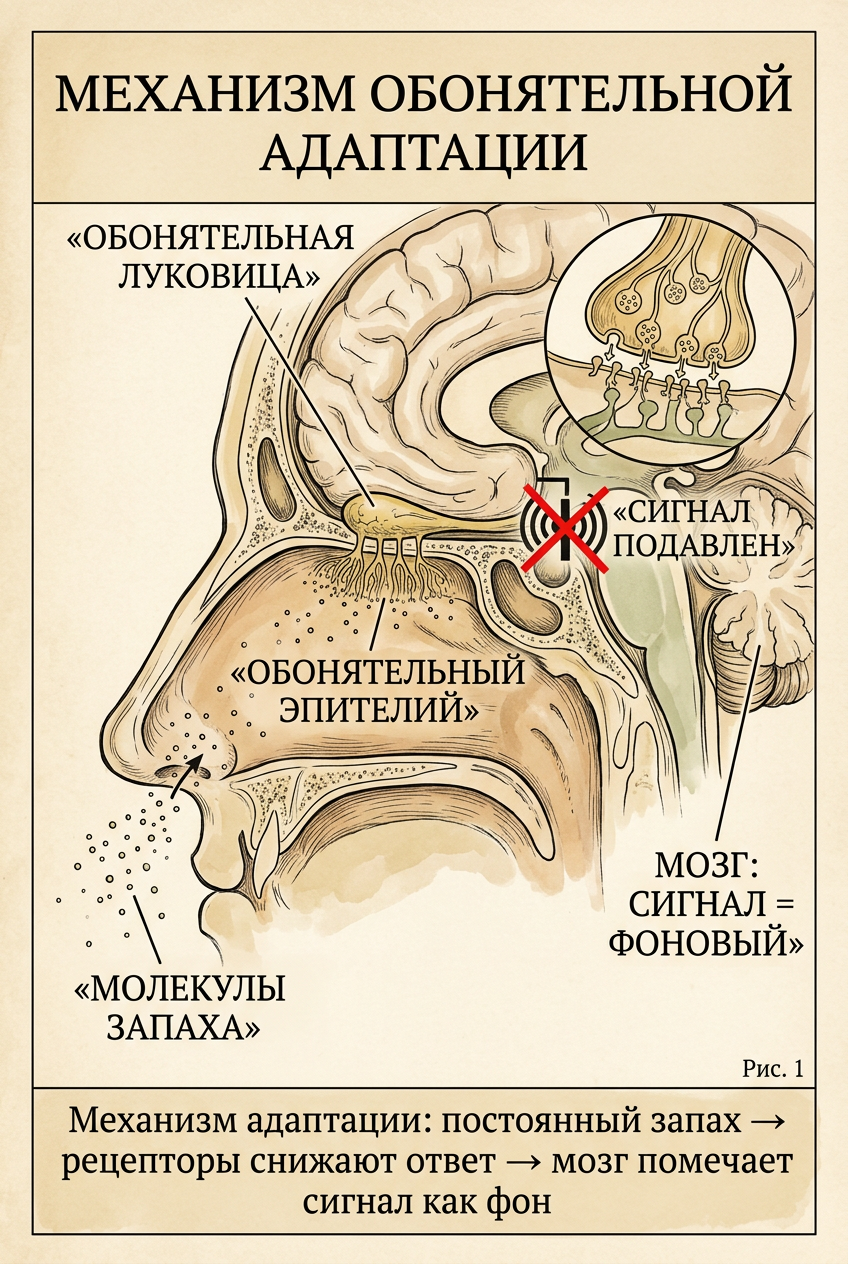
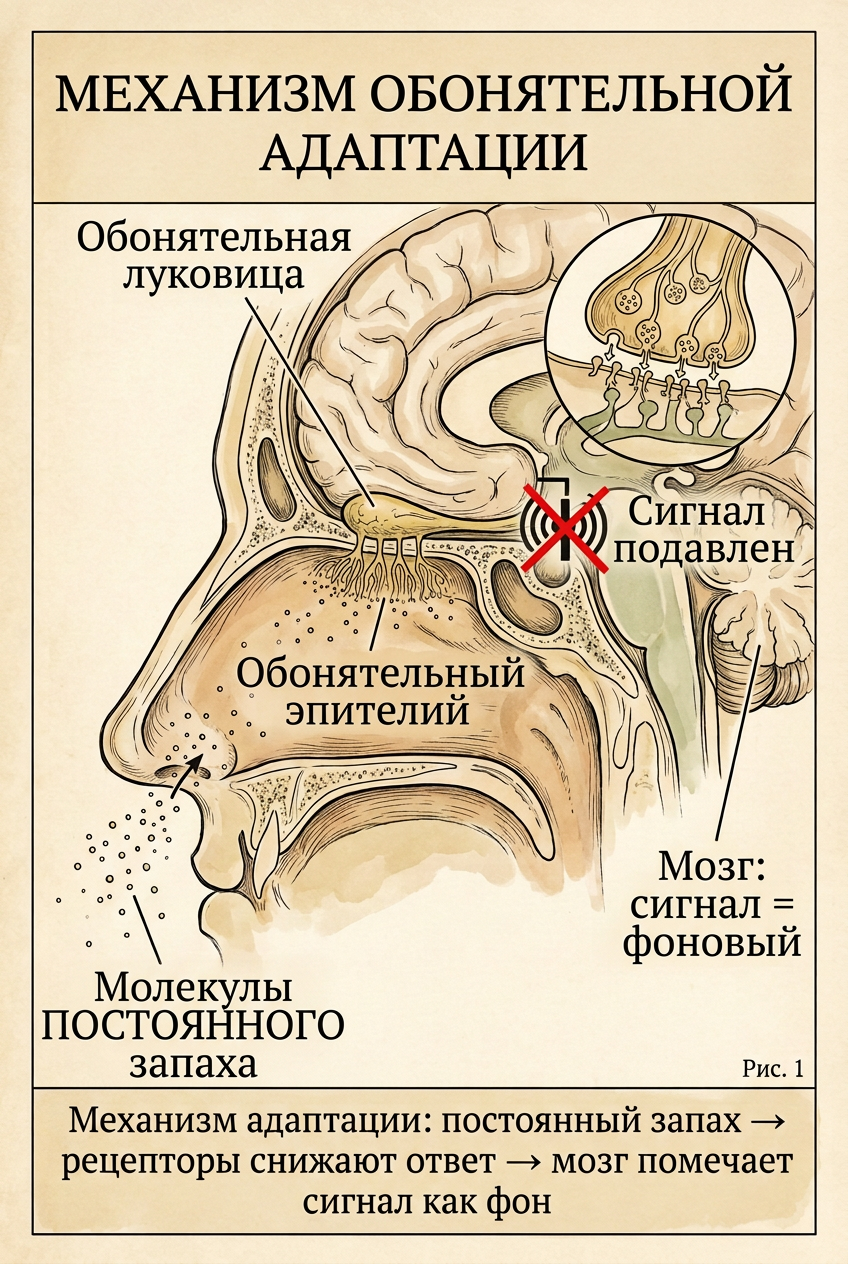
MAX: пост 3 - схема без кавычек, грамматика, молекулы ПОСТОЯННОГО запаха

diff --git a/03-сайт/max/images/README.md b/03-сайт/max/images/README.md
@@ -7,7 +7,7 @@
 
 Технически: в MAX картинки к посту уходят через POST /uploads?type=image и attachments сообщения.
 - `post2-shkaf.png` — пост 2: разрез шкафа у холодной стены (ДВП, зазор 5 см, мешочек с углем). Утверждена автором 24.10.
-- `post3-nos.png` — пост 3: «Механизм обонятельной адаптации», Рис. 1: срез носа, обонятельный эпителий, луковица с врезкой, «сигнал подавлен», мозг «сигнал = фоновый», подвал с механизмом. ИТОГОВАЯ. Требования автора: информативно, не по-детски, ТЕКСТ КРУПНЫЙ (две предыдущие забракованы: микроскопические подписи). Правило: подписи на инфографике — плакатного размера.
+- `post3-nos.png` — пост 3: «Механизм обонятельной адаптации», Рис. 1: срез носа, обонятельный эпителий, луковица с врезкой, «сигнал подавлен», мозг «сигнал = фоновый», подвал с механизмом. ИТОГОВАЯ. Требования автора: информативно, не по-детски, ТЕКСТ КРУПНЫЙ (две предыдущие забракованы: микроскопические подписи). Правила: подписи плакатного размера; БЕЗ кавычек-ёлочек на схемах; грамматика вычитывается (заглавные, падежи); ключевые смыслы выделять (напр. «молекулы ПОСТОЯННОГО запаха»).
 
 
 ## Урок по иллюстрациям в MAX (29.10)
